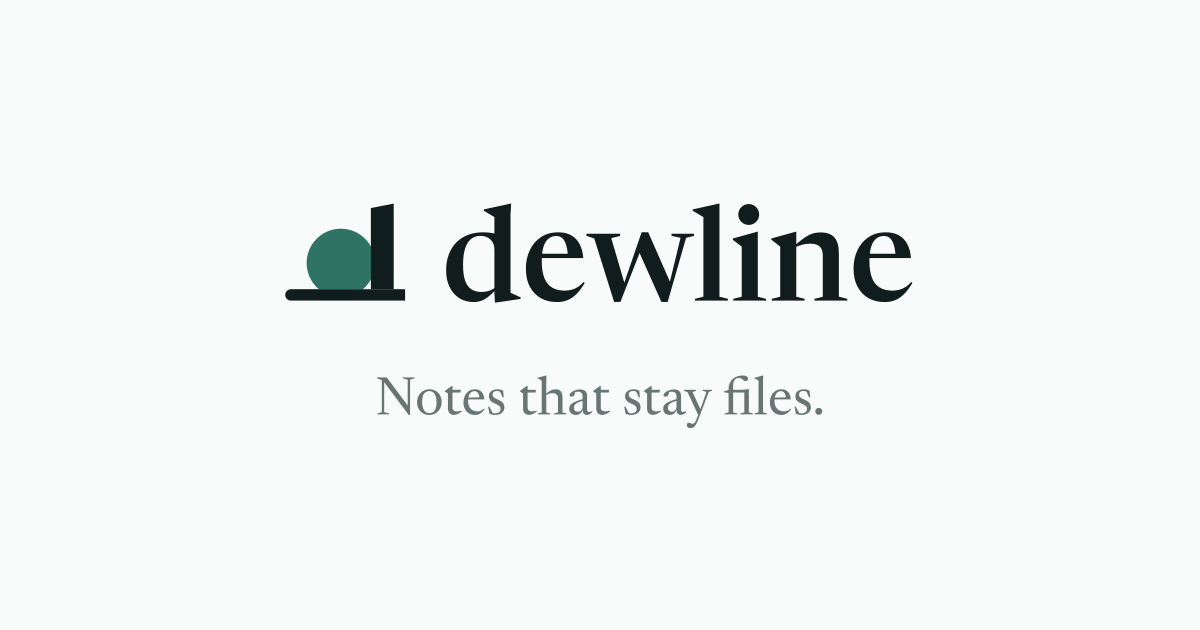
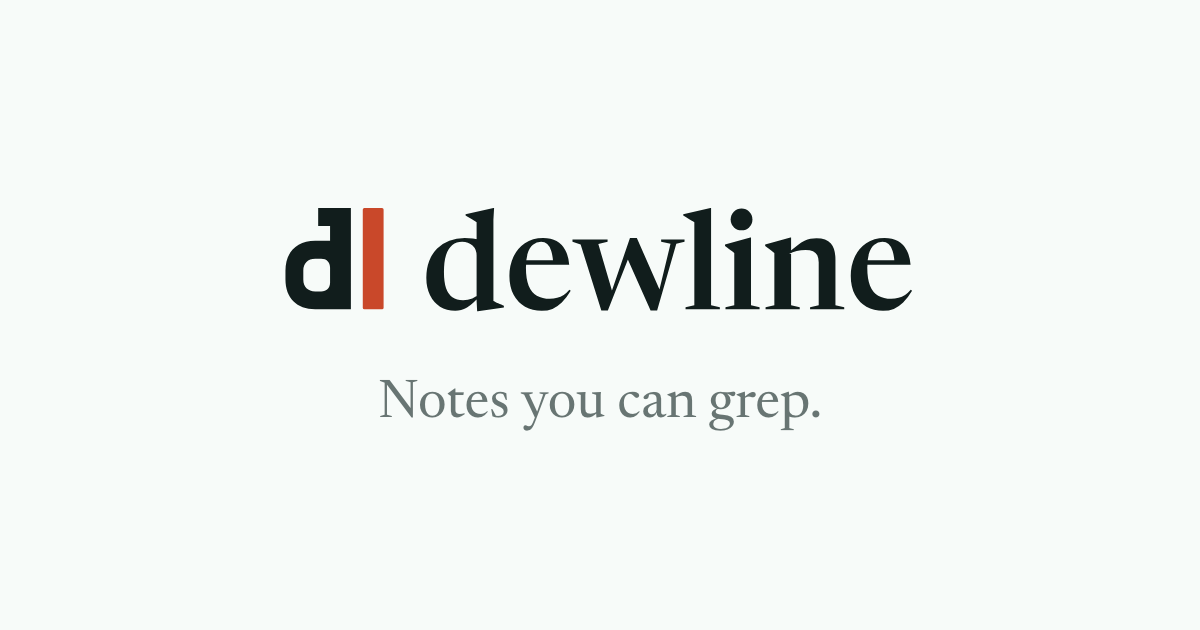
Brand pass: new mark, tagline and heading font (#90)
* Journey tests: first launch, a new note, a vault, agent review, reopen, git, snapshots, export

One suite in the test host, each test a whole path on a temporary folder with its own engine
store, in windows never ordered on screen. Two failures are real and stay as known issues:
View > Show Sidebar never reaches StationSplitController, and restoring a place lands where
TextKit 2's estimates put the line.

* Test host: a build of its own, so tests never write the app's defaults

The test action builds a Test configuration, Debug under dev.arkwerx.dewline.testhost IDs, so defaults,
Application Support and recent documents a test touches are the test host's. Archive, run and the perf
script's -configuration Release builds keep the app's IDs.

* New notes save themselves in their window's folder

A note made with File > New never autosaved, and its first save panel opened in Settings > General's
folder even in a vault window. Now the panel starts in the window's folder, and 2 s after an edit the
note saves itself there as the first free Untitled.md, then opens through the engine and autosaves like
any file.

* Conflict keys mean what they mean for changes

On a conflict card Cmd-Return kept both versions and Option-Cmd-Delete kept yours, while everywhere else
they keep and revert the outside writer's change. Now Cmd-Return keeps the other version (git's, the
agent's) and Option-Cmd-Delete keeps yours, on a card and off it.
[…]

Changed region(s): [[0.2158, 0.3016, 0.7708, 0.5127], [0.3083, 0.6032, 0.6783, 0.6937]]

diff --git a/site/index.html b/site/index.html
@@ -12,11 +12,11 @@
 <meta property="og:type" content="website">
 <meta property="og:url" content="https://dewline.arkwerx.com/">
 <meta property="og:title" content="Dewline">
-<meta property="og:description" content="A native Markdown editor for Mac, for the files you already keep.">
+<meta property="og:description" content="Notes you can grep. A native Markdown editor for Mac, for the files you already keep.">
 <meta property="og:image" content="https://dewline.arkwerx.com/og.png">
 <meta property="og:image:width" content="1200">
 <meta property="og:image:height" content="630">
-<meta property="og:image:alt" content="The Dewline wordmark above the line: Notes that stay files.">
+<meta property="og:image:alt" content="The Dewline mark and wordmark above the tagline: Notes you can grep.">
 <meta name="twitter:card" content="summary_large_image">
 <link rel="icon" href="/favicon.svg" type="image/svg+xml">
 <link rel="preload" href="/fonts/newsreader-var.v1.woff2" as="font" type="font/woff2" crossorigin>
@@ -27,13 +27,12 @@
 <body>
 <header class="top">
   <div class="top-in wrap">
-    <a class="lockup" href="/" aria-label="Dewline home"><svg aria-hidden="true" focusable="false" viewBox="-8 -12 979.9 176">
-  <g transform="matrix(0.27316 0 0 0.27316 -43.71 -77.27)">
-    <path class="bead" d="M348.6 768A192 192 0 1 1 595.4 768Z"/>
-    <path class="ink" d="M640 312.9L768 288V768H640Z"/>
-    <path class="ink" d="M832 768H192A32 32 0 0 0 192 832H832Z"/>
+    <a class="lockup" href="/" aria-label="Dewline home"><svg aria-hidden="true" focusable="false" viewBox="-8 -12 940.57 176">
+  <g transform="matrix(0.29137 0 0 0.29137 -77.21 -73.48)">
+    <path class="ink" transform="translate(55 32)" fill-rule="evenodd" d="M375,225L540,225L540,735L360,735C267.0,735 210,678.0 210,585L210,540C210,447.0 267.0,390 360,390L435,390L435,315L375,315ZM360,480L390,480C417.9,480 435,497.1 435,525L435,600C435,627.9 417.9,645 390,645L360,645C322.8,645 300,622.2 300,585L300,540C300,502.8 322.8,480 360,480Z"/>
+    <rect class="cursor" x="655" y="257" width="105" height="510" rx="8"/>
   </g>
-  <g transform="translate(239.56 0)">
+  <g transform="translate(200.23 0)">
   <g class="ink">
     <path d="M 80.7 71.3Q 80.7 62.1 74.7 56.5Q 68.7 50.8 59.4 50.8Q 51.0 50.8 45.0 55.6Q 39.0 60.5 35.8 70.3Q 32.7 80.2 32.7 95.3Q 32.7 109.7 35.7 118.9Q 38.8 128.1 45.1 132.4Q 51.3 136.7 60.8 136.7Q 68.1 136.7 74.4 134.3Q 80.6 131.8 86.2 125.9L 87.3 128.2Q 81.2 135.4 76.1 140.0Q 71.1 144.7 66.6 147.4Q 62.1 150.0 57.9 151.1Q 53.7 152.2 49.5 152.2Q 36.4 152.2 26.9 146.2Q 17.3 140.1 12.1 129.2Q 6.8 118.3 6.8 103.8Q 6.8 89.9 11.0 79.0Q 15.2 68.1 22.7 60.6Q 30.3 53.1 40.6 49.2Q 50.9 45.4 63.2 45.4Q 69.2 45.4 75.3 46.2Q 81.4 47.0 87.3 48.8Q 93.1 50.6 98.2 53.4L 80.7 55.5V 22.1Q 79.5 21.4 76.8 19.7Q 74.0 18.1 70.7 16.1Q 67.4 14.1 64.5 12.4V 10.3L 105.5 1.4H 106.4L 105.4 18.4V 137.9Q 106.3 138.3 108.2 139.2Q 110.1 140.1 112.4 141.1Q 114.7 142.2 116.9 143.2Q 119.2 144.3 120.8 145.0V 147.4L 82.5 153.0H 81.5L 80.7 137.7Z"/>
     <path d="M 178.6 45.4Q 190.0 45.4 198.2 49.9Q 206.4 54.5 211.1 63.3Q 215.9 72.1 216.8 84.8H 150.0V 78.2H 204.3L 193.4 82.6Q 192.6 71.2 190.4 64.3Q 188.2 57.4 184.5 54.2Q 180.8 51.0 175.5 51.0Q 168.5 51.0 163.5 55.2Q 158.4 59.3 155.8 67.7Q 153.2 76.2 153.2 89.1Q 153.2 105.3 157.2 115.4Q 161.3 125.5 169.2 130.1Q 177.1 134.7 188.5 134.7Q 194.0 134.7 199.1 133.3Q 204.2 131.9 208.7 129.0Q 213.3 126.1 217.1 121.5L 219.0 122.9Q 212.5 133.9 205.9 140.3Q 199.4 146.7 192.2 149.5Q 185.0 152.2 176.4 152.2Q 162.7 152.2 151.9 146.3Q 141.2 140.3 135.1 128.8Q 128.9 117.3 128.9 100.7Q 128.9 85.8 134.7 73.2Q 140.5 60.6 151.6 53.0Q 162.7 45.4 178.6 45.4Z"/>
@@ -216,12 +215,13 @@
   <section class="close" id="get">
     <div class="wrap close-in reveal">
       <div class="close-pitch">
-        <svg class="mark" aria-hidden="true" focusable="false" viewBox="144 272 704 576">
-  <path class="bead" d="M348.6 768A192 192 0 1 1 595.4 768Z"/>
-  <path class="ink" d="M640 312.9L768 288V768H640Z"/>
-  <path class="ink" d="M832 768H192A32 32 0 0 0 192 832H832Z"/>
+        <svg class="mark" aria-hidden="true" focusable="false" viewBox="0 0 1024 1024">
+  <defs><linearGradient id="tile" x1="0" y1="0" x2="0" y2="1"><stop offset="0" class="tile-top"/><stop offset="1" class="tile-foot"/></linearGradient></defs>
+  <rect width="1024" height="1024" rx="230" fill="url(#tile)"/>
+  <path class="tile-d" transform="translate(55 32)" fill-rule="evenodd" d="M375,225L540,225L540,735L360,735C267.0,735 210,678.0 210,585L210,540C210,447.0 267.0,390 360,390L435,390L435,315L375,315ZM360,480L390,480C417.9,480 435,497.1 435,525L435,600C435,627.9 417.9,645 390,645L360,645C322.8,645 300,622.2 300,585L300,540C300,502.8 322.8,480 360,480Z"/>
+  <rect class="tile-cursor" x="655" y="257" width="105" height="510" rx="8"/>
 </svg>
-        <h2>Your notes are already files.</h2>
+        <h2>Notes you can grep.</h2>
         <div class="get">
           <a class="btn" href="https://github.com/ark-232/dewline/releases/latest">Download for macOS 26</a>
         </div>

diff --git a/app/Dewline/Theme/Chrome.swift b/app/Dewline/Theme/Chrome.swift
@@ -333,16 +333,16 @@ final class ChromeButton: NSControl {
     }
 }
 
-/// The d-bead mark: a stem and a line in the theme's ink and a round bead in sea, fitted to the view and resting on
-/// its bottom edge. Drawn on the icon's 1024 grid, where the mark spans x 160 to 832 and y 288 to 832.
+/// The mark: the icon's monospace d in the theme's ink and its text cursor in the site's dawn, fitted to the view and
+/// resting on its bottom edge. Drawn on the icon's 1024 grid, where the mark spans x 265 to 760 and y 257 to 767.
 final class DewMark: NSView {
-    /// The brand's sea, the bead's color in every theme.
-    private static let sea = NSColor(name: nil) {
-        $0.isDark ? NSColor(srgbRed: 0x7F / 255, green: 0xC4 / 255, blue: 0xB2 / 255, alpha: 1)
-            : NSColor(srgbRed: 0x2F / 255, green: 0x73 / 255, blue: 0x65 / 255, alpha: 1)
+    /// The brand's accent, the cursor's color in every theme.
+    private static let dawn = NSColor(name: nil) {
+        $0.isDark ? NSColor(srgbRed: 0xFF / 255, green: 0x8A / 255, blue: 0x5C / 255, alpha: 1)
+            : NSColor(srgbRed: 0xC9 / 255, green: 0x48 / 255, blue: 0x2A / 255, alpha: 1)
     }
 
-    init(size: NSSize = NSSize(width: 18, height: 12)) {
+    init(size: NSSize = NSSize(width: 12, height: 12)) {
         super.init(frame: NSRect(origin: .zero, size: size))
         setAccessibilityElement(false)
         translatesAutoresizingMaskIntoConstraints = false
@@ -361,23 +361,38 @@ final class DewMark: NSView {
 
     override func draw(_ dirtyRect: NSRect) {
         guard let context = NSGraphicsContext.current?.cgContext else { return }
-        let scale = min(bounds.width / 672, bounds.height / 544)
-        context.translateBy(x: (bounds.width - 672 * scale) / 2, y: bounds.height - 544 * scale)
+        let scale = min(bounds.width / 495, bounds.height / 510)
+        context.translateBy(x: (bounds.width - 495 * scale) / 2, y: bounds.height - 510 * scale)
         context.scaleBy(x: scale, y: scale)
-        context.translateBy(x: -160, y: -288)
-        // The whole bead draws first: the line covers its lower part, so no seam shows where it rests.
-        Self.sea.resolved(for: effectiveAppearance).setFill()
-        NSBezierPath(ovalIn: NSRect(x: 280, y: 428.9, width: 384, height: 384)).fill()
+        context.translateBy(x: -265, y: -257)
         Chrome.color(.ink).resolved(for: effectiveAppearance).setFill()
-        let stem = NSBezierPath()
-        stem.move(to: NSPoint(x: 640, y: 312.9))
-        stem.line(to: NSPoint(x: 768, y: 288))
-        stem.line(to: NSPoint(x: 768, y: 832))
-        stem.line(to: NSPoint(x: 640, y: 832))
-        stem.close()
-        stem.fill()
-        NSBezierPath(ovalIn: NSRect(x: 160, y: 768, width: 64, height: 64)).fill()
-        NSBezierPath(rect: NSRect(x: 192, y: 768, width: 640, height: 64)).fill()
+        // The d's outer contour and its counter, wound against each other.
+        let d = NSBezierPath()
+        d.move(to: NSPoint(x: 430, y: 257))
+        d.line(to: NSPoint(x: 595, y: 257))
+        d.line(to: NSPoint(x: 595, y: 767))
+        d.line(to: NSPoint(x: 415, y: 767))
+        d.curve(to: NSPoint(x: 265, y: 617), controlPoint1: NSPoint(x: 322, y: 767), controlPoint2: NSPoint(x: 265, y: 710))
+        d.line(to: NSPoint(x: 265, y: 572))
+        d.curve(to: NSPoint(x: 415, y: 422), controlPoint1: NSPoint(x: 265, y: 479), controlPoint2: NSPoint(x: 322, y: 422))
+        d.line(to: NSPoint(x: 490, y: 422))
+        d.line(to: NSPoint(x: 490, y: 347))
+        d.line(to: NSPoint(x: 430, y: 347))
+        d.close()
+        d.move(to: NSPoint(x: 415, y: 512))
+        d.line(to: NSPoint(x: 445, y: 512))
+        d.curve(to: NSPoint(x: 490, y: 557), controlPoint1: NSPoint(x: 472.9, y: 512), controlPoint2: NSPoint(x: 490, y: 529.1))
+        d.line(to: NSPoint(x: 490, y: 632))
+        d.curve(to: NSPoint(x: 445, y: 677), controlPoint1: NSPoint(x: 490, y: 659.9), controlPoint2: NSPoint(x: 472.9, y: 677))
+        d.line(to: NSPoint(x: 415, y: 677))
+        d.curve(to: NSPoint(x: 355, y: 617), controlPoint1: NSPoint(x: 377.8, y: 677), controlPoint2: NSPoint(x: 355, y: 654.2))
+        d.line(to: NSPoint(x: 355, y: 572))
+        d.curve(to: NSPoint(x: 415, y: 512), controlPoint1: NSPoint(x: 355, y: 534.8), controlPoint2: NSPoint(x: 377.8, y: 512))
+        d.close()
+        d.windingRule = .evenOdd
+        d.fill()
+        Self.dawn.resolved(for: effectiveAppearance).setFill()
+        NSBezierPath(roundedRect: NSRect(x: 655, y: 257, width: 105, height: 510), xRadius: 8, yRadius: 8).fill()
     }
 
     @objc private func themeDidChange() {

diff --git a/site/docs/themes-and-fonts/index.html b/site/docs/themes-and-fonts/index.html
@@ -23,13 +23,12 @@
 <header class="dtop">
   <div class="dtop-in">
     <button type="button" class="menu" aria-controls="dnav" aria-expanded="false">Menu</button>
-    <a class="lockup" href="/" aria-label="Dewline home"><svg aria-hidden="true" focusable="false" viewBox="-8 -12 979.9 176">
-  <g transform="matrix(0.27316 0 0 0.27316 -43.71 -77.27)">
-    <path class="bead" d="M348.6 768A192 192 0 1 1 595.4 768Z"/>
-    <path class="ink" d="M640 312.9L768 288V768H640Z"/>
-    <path class="ink" d="M832 768H192A32 32 0 0 0 192 832H832Z"/>
+    <a class="lockup" href="/" aria-label="Dewline home"><svg aria-hidden="true" focusable="false" viewBox="-8 -12 940.57 176">
+  <g transform="matrix(0.29137 0 0 0.29137 -77.21 -73.48)">
+    <path class="ink" transform="translate(55 32)" fill-rule="evenodd" d="M375,225L540,225L540,735L360,735C267.0,735 210,678.0 210,585L210,540C210,447.0 267.0,390 360,390L435,390L435,315L375,315ZM360,480L390,480C417.9,480 435,497.1 435,525L435,600C435,627.9 417.9,645 390,645L360,645C322.8,645 300,622.2 300,585L300,540C300,502.8 322.8,480 360,480Z"/>
+    <rect class="cursor" x="655" y="257" width="105" height="510" rx="8"/>
   </g>
-  <g transform="translate(239.56 0)">
+  <g transform="translate(200.23 0)">
   <g class="ink">
     <path d="M 80.7 71.3Q 80.7 62.1 74.7 56.5Q 68.7 50.8 59.4 50.8Q 51.0 50.8 45.0 55.6Q 39.0 60.5 35.8 70.3Q 32.7 80.2 32.7 95.3Q 32.7 109.7 35.7 118.9Q 38.8 128.1 45.1 132.4Q 51.3 136.7 60.8 136.7Q 68.1 136.7 74.4 134.3Q 80.6 131.8 86.2 125.9L 87.3 128.2Q 81.2 135.4 76.1 140.0Q 71.1 144.7 66.6 147.4Q 62.1 150.0 57.9 151.1Q 53.7 152.2 49.5 152.2Q 36.4 152.2 26.9 146.2Q 17.3 140.1 12.1 129.2Q 6.8 118.3 6.8 103.8Q 6.8 89.9 11.0 79.0Q 15.2 68.1 22.7 60.6Q 30.3 53.1 40.6 49.2Q 50.9 45.4 63.2 45.4Q 69.2 45.4 75.3 46.2Q 81.4 47.0 87.3 48.8Q 93.1 50.6 98.2 53.4L 80.7 55.5V 22.1Q 79.5 21.4 76.8 19.7Q 74.0 18.1 70.7 16.1Q 67.4 14.1 64.5 12.4V 10.3L 105.5 1.4H 106.4L 105.4 18.4V 137.9Q 106.3 138.3 108.2 139.2Q 110.1 140.1 112.4 141.1Q 114.7 142.2 116.9 143.2Q 119.2 144.3 120.8 145.0V 147.4L 82.5 153.0H 81.5L 80.7 137.7Z"/>
     <path d="M 178.6 45.4Q 190.0 45.4 198.2 49.9Q 206.4 54.5 211.1 63.3Q 215.9 72.1 216.8 84.8H 150.0V 78.2H 204.3L 193.4 82.6Q 192.6 71.2 190.4 64.3Q 188.2 57.4 184.5 54.2Q 180.8 51.0 175.5 51.0Q 168.5 51.0 163.5 55.2Q 158.4 59.3 155.8 67.7Q 153.2 76.2 153.2 89.1Q 153.2 105.3 157.2 115.4Q 161.3 125.5 169.2 130.1Q 177.1 134.7 188.5 134.7Q 194.0 134.7 199.1 133.3Q 204.2 131.9 208.7 129.0Q 213.3 126.1 217.1 121.5L 219.0 122.9Q 212.5 133.9 205.9 140.3Q 199.4 146.7 192.2 149.5Q 185.0 152.2 176.4 152.2Q 162.7 152.2 151.9 146.3Q 141.2 140.3 135.1 128.8Q 128.9 117.3 128.9 100.7Q 128.9 85.8 134.7 73.2Q 140.5 60.6 151.6 53.0Q 162.7 45.4 178.6 45.4Z"/>
@@ -140,7 +139,7 @@
         <table>
           <thead><tr><th scope="col"></th><th scope="col">Body</th><th scope="col">Headings</th><th scope="col">Code</th></tr></thead>
           <tbody>
-            <tr><th scope="row">Default</th><td>New York</td><td>Bricolage Grotesque</td><td>JetBrains Mono</td></tr>
+            <tr><th scope="row">Default</th><td>New York</td><td>SF Pro, semibold</td><td>JetBrains Mono</td></tr>
             <tr><th scope="row" id="pairings">Editorial</th><td>Newsreader</td><td>Bricolage Grotesque</td><td>JetBrains Mono</td></tr>
             <tr><th scope="row">Manuscript</th><td>Courier Prime</td><td>Courier Prime</td><td>Courier Prime</td></tr>
             <tr><th scope="row">Hyperlegible</th><td>Atkinson Hyperlegible Next</td><td>Atkinson Hyperlegible Next</td><td>Atkinson Hyperlegible Mono</td></tr>

diff --git a/app/Dewline/Shell/LaunchWindow.swift b/app/Dewline/Shell/LaunchWindow.swift
@@ -1,7 +1,7 @@
 import AppKit
 
-/// The window shown when nothing is open, 560 by 400: the mark and name, one list of recent folders then notes, and
-/// New Note, Open and Open Folder along the bottom.
+/// The window shown when nothing is open, 560 by 400: the mark and name with the tagline across from them, one list
+/// of recent folders then notes, and New Note, Open and Open Folder along the bottom.
 final class LaunchWindowController: NSWindowController, NSTableViewDataSource, NSTableViewDelegate, NSSearchFieldDelegate {
     static var showsWhenNothingIsOpen: Bool {
         // The test host stays windowless.
@@ -21,6 +21,7 @@ final class LaunchWindowController: NSWindowController, NSTableViewDataSource, N
     private let filter = NSSearchField()
     private let empty = NSTextField(labelWithString: "Notes and folders you open show up here.")
     private let name = NSTextField(labelWithString: "Dewline")
+    private let tagline = NSTextField(labelWithString: "Notes you can grep.")
     private var rows: [Row] = []
     private var filterHeight: NSLayoutConstraint!
 
@@ -56,6 +57,7 @@ final class LaunchWindowController: NSWindowController, NSTableViewDataSource, N
 
     @objc private func applyTheme() {
         name.textColor = Chrome.color(.ink)
+        tagline.textColor = Chrome.color(.ink2)
         empty.textColor = Chrome.color(.ink2)
         list.reloadData()
     }
@@ -67,13 +69,14 @@ final class LaunchWindowController: NSWindowController, NSTableViewDataSource, N
 
     private func content() -> NSView {
         let root = PaperView()
-        let mark = DewMark(size: NSSize(width: 36, height: 28))
+        let mark = DewMark(size: NSSize(width: 16.5, height: 17))
         name.font = .systemFont(ofSize: 20, weight: .semibold)
         let lockup = NSStackView(views: [mark, name])
         lockup.spacing = 8
         lockup.alignment = .lastBaseline
         lockup.setAccessibilityElement(true)
         lockup.setAccessibilityLabel("Dewline")
+        tagline.font = Chrome.label
         filter.placeholderString = "Filter"
         filter.delegate = self
         let column = NSTableColumn(identifier: .init("file"))
@@ -104,7 +107,7 @@ final class LaunchWindowController: NSWindowController, NSTableViewDataSource, N
         let folder = NSButton(title: "Open Folder…", target: nil, action: #selector(AppDelegate.openFolder(_:)))
         let buttons = NSStackView(views: [folder, open, new])
         buttons.spacing = 8
-        for view in [lockup, filter, scroll, empty, buttons] as [NSView] {
+        for view in [lockup, tagline, filter, scroll, empty, buttons] as [NSView] {
             view.translatesAutoresizingMaskIntoConstraints = false
             root.addSubview(view)
         }
@@ -114,6 +117,8 @@ final class LaunchWindowController: NSWindowController, NSTableViewDataSource, N
             root.heightAnchor.constraint(equalToConstant: Self.size.height),
             lockup.topAnchor.constraint(equalTo: root.topAnchor, constant: 40),
             lockup.leadingAnchor.constraint(equalTo: root.leadingAnchor, constant: 24),
+            tagline.firstBaselineAnchor.constraint(equalTo: name.firstBaselineAnchor),
+            tagline.trailingAnchor.constraint(equalTo: root.trailingAnchor, constant: -24),
             filter.topAnchor.constraint(equalTo: lockup.bottomAnchor, constant: 20),
             filter.leadingAnchor.constraint(equalTo: root.leadingAnchor, constant: 24),
             filter.trailingAnchor.constraint(equalTo: root.trailingAnchor, constant: -24),

diff --git a/site/og/index.html b/site/og/index.html
@@ -7,13 +7,12 @@
 <link rel="stylesheet" href="/og/og.css">
 </head>
 <body class="og">
-  <svg aria-hidden="true" focusable="false" viewBox="-8 -12 979.9 176">
-  <g transform="matrix(0.27316 0 0 0.27316 -43.71 -77.27)">
-    <path class="bead" d="M348.6 768A192 192 0 1 1 595.4 768Z"/>
-    <path class="ink" d="M640 312.9L768 288V768H640Z"/>
-    <path class="ink" d="M832 768H192A32 32 0 0 0 192 832H832Z"/>
+  <svg aria-hidden="true" focusable="false" viewBox="-8 -12 940.57 176">
+  <g transform="matrix(0.29137 0 0 0.29137 -77.21 -73.48)">
+    <path class="ink" transform="translate(55 32)" fill-rule="evenodd" d="M375,225L540,225L540,735L360,735C267.0,735 210,678.0 210,585L210,540C210,447.0 267.0,390 360,390L435,390L435,315L375,315ZM360,480L390,480C417.9,480 435,497.1 435,525L435,600C435,627.9 417.9,645 390,645L360,645C322.8,645 300,622.2 300,585L300,540C300,502.8 322.8,480 360,480Z"/>
+    <rect class="cursor" x="655" y="257" width="105" height="510" rx="8"/>
   </g>
-  <g transform="translate(239.56 0)">
+  <g transform="translate(200.23 0)">
   <g class="ink">
     <path d="M 80.7 71.3Q 80.7 62.1 74.7 56.5Q 68.7 50.8 59.4 50.8Q 51.0 50.8 45.0 55.6Q 39.0 60.5 35.8 70.3Q 32.7 80.2 32.7 95.3Q 32.7 109.7 35.7 118.9Q 38.8 128.1 45.1 132.4Q 51.3 136.7 60.8 136.7Q 68.1 136.7 74.4 134.3Q 80.6 131.8 86.2 125.9L 87.3 128.2Q 81.2 135.4 76.1 140.0Q 71.1 144.7 66.6 147.4Q 62.1 150.0 57.9 151.1Q 53.7 152.2 49.5 152.2Q 36.4 152.2 26.9 146.2Q 17.3 140.1 12.1 129.2Q 6.8 118.3 6.8 103.8Q 6.8 89.9 11.0 79.0Q 15.2 68.1 22.7 60.6Q 30.3 53.1 40.6 49.2Q 50.9 45.4 63.2 45.4Q 69.2 45.4 75.3 46.2Q 81.4 47.0 87.3 48.8Q 93.1 50.6 98.2 53.4L 80.7 55.5V 22.1Q 79.5 21.4 76.8 19.7Q 74.0 18.1 70.7 16.1Q 67.4 14.1 64.5 12.4V 10.3L 105.5 1.4H 106.4L 105.4 18.4V 137.9Q 106.3 138.3 108.2 139.2Q 110.1 140.1 112.4 141.1Q 114.7 142.2 116.9 143.2Q 119.2 144.3 120.8 145.0V 147.4L 82.5 153.0H 81.5L 80.7 137.7Z"/>
     <path d="M 178.6 45.4Q 190.0 45.4 198.2 49.9Q 206.4 54.5 211.1 63.3Q 215.9 72.1 216.8 84.8H 150.0V 78.2H 204.3L 193.4 82.6Q 192.6 71.2 190.4 64.3Q 188.2 57.4 184.5 54.2Q 180.8 51.0 175.5 51.0Q 168.5 51.0 163.5 55.2Q 158.4 59.3 155.8 67.7Q 153.2 76.2 153.2 89.1Q 153.2 105.3 157.2 115.4Q 161.3 125.5 169.2 130.1Q 177.1 134.7 188.5 134.7Q 194.0 134.7 199.1 133.3Q 204.2 131.9 208.7 129.0Q 213.3 126.1 217.1 121.5L 219.0 122.9Q 212.5 133.9 205.9 140.3Q 199.4 146.7 192.2 149.5Q 185.0 152.2 176.4 152.2Q 162.7 152.2 151.9 146.3Q 141.2 140.3 135.1 128.8Q 128.9 117.3 128.9 100.7Q 128.9 85.8 134.7 73.2Q 140.5 60.6 151.6 53.0Q 162.7 45.4 178.6 45.4Z"/>
@@ -26,6 +25,6 @@
   <circle class="ink" cx="470.1" cy="18.1" r="16.0"/>
   </g>
 </svg>
-  <p class="og-tag">Notes that stay files.</p>
+  <p class="og-tag">Notes you can grep.</p>
 </body>
 </html>

diff --git a/site/docs/_template.html b/site/docs/_template.html
@@ -23,13 +23,12 @@
 <header class="dtop">
   <div class="dtop-in">
     <button type="button" class="menu" aria-controls="dnav" aria-expanded="false">Menu</button>
-    <a class="lockup" href="/" aria-label="Dewline home"><svg aria-hidden="true" focusable="false" viewBox="-8 -12 979.9 176">
-  <g transform="matrix(0.27316 0 0 0.27316 -43.71 -77.27)">
-    <path class="bead" d="M348.6 768A192 192 0 1 1 595.4 768Z"/>
-    <path class="ink" d="M640 312.9L768 288V768H640Z"/>
-    <path class="ink" d="M832 768H192A32 32 0 0 0 192 832H832Z"/>
+    <a class="lockup" href="/" aria-label="Dewline home"><svg aria-hidden="true" focusable="false" viewBox="-8 -12 940.57 176">
+  <g transform="matrix(0.29137 0 0 0.29137 -77.21 -73.48)">
+    <path class="ink" transform="translate(55 32)" fill-rule="evenodd" d="M375,225L540,225L540,735L360,735C267.0,735 210,678.0 210,585L210,540C210,447.0 267.0,390 360,390L435,390L435,315L375,315ZM360,480L390,480C417.9,480 435,497.1 435,525L435,600C435,627.9 417.9,645 390,645L360,645C322.8,645 300,622.2 300,585L300,540C300,502.8 322.8,480 360,480Z"/>
+    <rect class="cursor" x="655" y="257" width="105" height="510" rx="8"/>
   </g>
-  <g transform="translate(239.56 0)">
+  <g transform="translate(200.23 0)">
   <g class="ink">
     <path d="M 80.7 71.3Q 80.7 62.1 74.7 56.5Q 68.7 50.8 59.4 50.8Q 51.0 50.8 45.0 55.6Q 39.0 60.5 35.8 70.3Q 32.7 80.2 32.7 95.3Q 32.7 109.7 35.7 118.9Q 38.8 128.1 45.1 132.4Q 51.3 136.7 60.8 136.7Q 68.1 136.7 74.4 134.3Q 80.6 131.8 86.2 125.9L 87.3 128.2Q 81.2 135.4 76.1 140.0Q 71.1 144.7 66.6 147.4Q 62.1 150.0 57.9 151.1Q 53.7 152.2 49.5 152.2Q 36.4 152.2 26.9 146.2Q 17.3 140.1 12.1 129.2Q 6.8 118.3 6.8 103.8Q 6.8 89.9 11.0 79.0Q 15.2 68.1 22.7 60.6Q 30.3 53.1 40.6 49.2Q 50.9 45.4 63.2 45.4Q 69.2 45.4 75.3 46.2Q 81.4 47.0 87.3 48.8Q 93.1 50.6 98.2 53.4L 80.7 55.5V 22.1Q 79.5 21.4 76.8 19.7Q 74.0 18.1 70.7 16.1Q 67.4 14.1 64.5 12.4V 10.3L 105.5 1.4H 106.4L 105.4 18.4V 137.9Q 106.3 138.3 108.2 139.2Q 110.1 140.1 112.4 141.1Q 114.7 142.2 116.9 143.2Q 119.2 144.3 120.8 145.0V 147.4L 82.5 153.0H 81.5L 80.7 137.7Z"/>
     <path d="M 178.6 45.4Q 190.0 45.4 198.2 49.9Q 206.4 54.5 211.1 63.3Q 215.9 72.1 216.8 84.8H 150.0V 78.2H 204.3L 193.4 82.6Q 192.6 71.2 190.4 64.3Q 188.2 57.4 184.5 54.2Q 180.8 51.0 175.5 51.0Q 168.5 51.0 163.5 55.2Q 158.4 59.3 155.8 67.7Q 153.2 76.2 153.2 89.1Q 153.2 105.3 157.2 115.4Q 161.3 125.5 169.2 130.1Q 177.1 134.7 188.5 134.7Q 194.0 134.7 199.1 133.3Q 204.2 131.9 208.7 129.0Q 213.3 126.1 217.1 121.5L 219.0 122.9Q 212.5 133.9 205.9 140.3Q 199.4 146.7 192.2 149.5Q 185.0 152.2 176.4 152.2Q 162.7 152.2 151.9 146.3Q 141.2 140.3 135.1 128.8Q 128.9 117.3 128.9 100.7Q 128.9 85.8 134.7 73.2Q 140.5 60.6 151.6 53.0Q 162.7 45.4 178.6 45.4Z"/>

diff --git a/site/docs/agents/index.html b/site/docs/agents/index.html
@@ -23,13 +23,12 @@
 <header class="dtop">
   <div class="dtop-in">
     <button type="button" class="menu" aria-controls="dnav" aria-expanded="false">Menu</button>
-    <a class="lockup" href="/" aria-label="Dewline home"><svg aria-hidden="true" focusable="false" viewBox="-8 -12 979.9 176">
-  <g transform="matrix(0.27316 0 0 0.27316 -43.71 -77.27)">
-    <path class="bead" d="M348.6 768A192 192 0 1 1 595.4 768Z"/>
-    <path class="ink" d="M640 312.9L768 288V768H640Z"/>
-    <path class="ink" d="M832 768H192A32 32 0 0 0 192 832H832Z"/>
+    <a class="lockup" href="/" aria-label="Dewline home"><svg aria-hidden="true" focusable="false" viewBox="-8 -12 940.57 176">
+  <g transform="matrix(0.29137 0 0 0.29137 -77.21 -73.48)">
+    <path class="ink" transform="translate(55 32)" fill-rule="evenodd" d="M375,225L540,225L540,735L360,735C267.0,735 210,678.0 210,585L210,540C210,447.0 267.0,390 360,390L435,390L435,315L375,315ZM360,480L390,480C417.9,480 435,497.1 435,525L435,600C435,627.9 417.9,645 390,645L360,645C322.8,645 300,622.2 300,585L300,540C300,502.8 322.8,480 360,480Z"/>
+    <rect class="cursor" x="655" y="257" width="105" height="510" rx="8"/>
   </g>
-  <g transform="translate(239.56 0)">
+  <g transform="translate(200.23 0)">
   <g class="ink">
     <path d="M 80.7 71.3Q 80.7 62.1 74.7 56.5Q 68.7 50.8 59.4 50.8Q 51.0 50.8 45.0 55.6Q 39.0 60.5 35.8 70.3Q 32.7 80.2 32.7 95.3Q 32.7 109.7 35.7 118.9Q 38.8 128.1 45.1 132.4Q 51.3 136.7 60.8 136.7Q 68.1 136.7 74.4 134.3Q 80.6 131.8 86.2 125.9L 87.3 128.2Q 81.2 135.4 76.1 140.0Q 71.1 144.7 66.6 147.4Q 62.1 150.0 57.9 151.1Q 53.7 152.2 49.5 152.2Q 36.4 152.2 26.9 146.2Q 17.3 140.1 12.1 129.2Q 6.8 118.3 6.8 103.8Q 6.8 89.9 11.0 79.0Q 15.2 68.1 22.7 60.6Q 30.3 53.1 40.6 49.2Q 50.9 45.4 63.2 45.4Q 69.2 45.4 75.3 46.2Q 81.4 47.0 87.3 48.8Q 93.1 50.6 98.2 53.4L 80.7 55.5V 22.1Q 79.5 21.4 76.8 19.7Q 74.0 18.1 70.7 16.1Q 67.4 14.1 64.5 12.4V 10.3L 105.5 1.4H 106.4L 105.4 18.4V 137.9Q 106.3 138.3 108.2 139.2Q 110.1 140.1 112.4 141.1Q 114.7 142.2 116.9 143.2Q 119.2 144.3 120.8 145.0V 147.4L 82.5 153.0H 81.5L 80.7 137.7Z"/>
     <path d="M 178.6 45.4Q 190.0 45.4 198.2 49.9Q 206.4 54.5 211.1 63.3Q 215.9 72.1 216.8 84.8H 150.0V 78.2H 204.3L 193.4 82.6Q 192.6 71.2 190.4 64.3Q 188.2 57.4 184.5 54.2Q 180.8 51.0 175.5 51.0Q 168.5 51.0 163.5 55.2Q 158.4 59.3 155.8 67.7Q 153.2 76.2 153.2 89.1Q 153.2 105.3 157.2 115.4Q 161.3 125.5 169.2 130.1Q 177.1 134.7 188.5 134.7Q 194.0 134.7 199.1 133.3Q 204.2 131.9 208.7 129.0Q 213.3 126.1 217.1 121.5L 219.0 122.9Q 212.5 133.9 205.9 140.3Q 199.4 146.7 192.2 149.5Q 185.0 152.2 176.4 152.2Q 162.7 152.2 151.9 146.3Q 141.2 140.3 135.1 128.8Q 128.9 117.3 128.9 100.7Q 128.9 85.8 134.7 73.2Q 140.5 60.6 151.6 53.0Q 162.7 45.4 178.6 45.4Z"/>

diff --git a/site/docs/architecture/index.html b/site/docs/architecture/index.html
@@ -23,13 +23,12 @@
 <header class="dtop">
   <div class="dtop-in">
     <button type="button" class="menu" aria-controls="dnav" aria-expanded="false">Menu</button>
-    <a class="lockup" href="/" aria-label="Dewline home"><svg aria-hidden="true" focusable="false" viewBox="-8 -12 979.9 176">
-  <g transform="matrix(0.27316 0 0 0.27316 -43.71 -77.27)">
-    <path class="bead" d="M348.6 768A192 192 0 1 1 595.4 768Z"/>
-    <path class="ink" d="M640 312.9L768 288V768H640Z"/>
-    <path class="ink" d="M832 768H192A32 32 0 0 0 192 832H832Z"/>
+    <a class="lockup" href="/" aria-label="Dewline home"><svg aria-hidden="true" focusable="false" viewBox="-8 -12 940.57 176">
+  <g transform="matrix(0.29137 0 0 0.29137 -77.21 -73.48)">
+    <path class="ink" transform="translate(55 32)" fill-rule="evenodd" d="M375,225L540,225L540,735L360,735C267.0,735 210,678.0 210,585L210,540C210,447.0 267.0,390 360,390L435,390L435,315L375,315ZM360,480L390,480C417.9,480 435,497.1 435,525L435,600C435,627.9 417.9,645 390,645L360,645C322.8,645 300,622.2 300,585L300,540C300,502.8 322.8,480 360,480Z"/>
+    <rect class="cursor" x="655" y="257" width="105" height="510" rx="8"/>
   </g>
-  <g transform="translate(239.56 0)">
+  <g transform="translate(200.23 0)">
   <g class="ink">
     <path d="M 80.7 71.3Q 80.7 62.1 74.7 56.5Q 68.7 50.8 59.4 50.8Q 51.0 50.8 45.0 55.6Q 39.0 60.5 35.8 70.3Q 32.7 80.2 32.7 95.3Q 32.7 109.7 35.7 118.9Q 38.8 128.1 45.1 132.4Q 51.3 136.7 60.8 136.7Q 68.1 136.7 74.4 134.3Q 80.6 131.8 86.2 125.9L 87.3 128.2Q 81.2 135.4 76.1 140.0Q 71.1 144.7 66.6 147.4Q 62.1 150.0 57.9 151.1Q 53.7 152.2 49.5 152.2Q 36.4 152.2 26.9 146.2Q 17.3 140.1 12.1 129.2Q 6.8 118.3 6.8 103.8Q 6.8 89.9 11.0 79.0Q 15.2 68.1 22.7 60.6Q 30.3 53.1 40.6 49.2Q 50.9 45.4 63.2 45.4Q 69.2 45.4 75.3 46.2Q 81.4 47.0 87.3 48.8Q 93.1 50.6 98.2 53.4L 80.7 55.5V 22.1Q 79.5 21.4 76.8 19.7Q 74.0 18.1 70.7 16.1Q 67.4 14.1 64.5 12.4V 10.3L 105.5 1.4H 106.4L 105.4 18.4V 137.9Q 106.3 138.3 108.2 139.2Q 110.1 140.1 112.4 141.1Q 114.7 142.2 116.9 143.2Q 119.2 144.3 120.8 145.0V 147.4L 82.5 153.0H 81.5L 80.7 137.7Z"/>
     <path d="M 178.6 45.4Q 190.0 45.4 198.2 49.9Q 206.4 54.5 211.1 63.3Q 215.9 72.1 216.8 84.8H 150.0V 78.2H 204.3L 193.4 82.6Q 192.6 71.2 190.4 64.3Q 188.2 57.4 184.5 54.2Q 180.8 51.0 175.5 51.0Q 168.5 51.0 163.5 55.2Q 158.4 59.3 155.8 67.7Q 153.2 76.2 153.2 89.1Q 153.2 105.3 157.2 115.4Q 161.3 125.5 169.2 130.1Q 177.1 134.7 188.5 134.7Q 194.0 134.7 199.1 133.3Q 204.2 131.9 208.7 129.0Q 213.3 126.1 217.1 121.5L 219.0 122.9Q 212.5 133.9 205.9 140.3Q 199.4 146.7 192.2 149.5Q 185.0 152.2 176.4 152.2Q 162.7 152.2 151.9 146.3Q 141.2 140.3 135.1 128.8Q 128.9 117.3 128.9 100.7Q 128.9 85.8 134.7 73.2Q 140.5 60.6 151.6 53.0Q 162.7 45.4 178.6 45.4Z"/>

diff --git a/site/docs/cli/index.html b/site/docs/cli/index.html
@@ -23,13 +23,12 @@
 <header class="dtop">
   <div class="dtop-in">
     <button type="button" class="menu" aria-controls="dnav" aria-expanded="false">Menu</button>
-    <a class="lockup" href="/" aria-label="Dewline home"><svg aria-hidden="true" focusable="false" viewBox="-8 -12 979.9 176">
-  <g transform="matrix(0.27316 0 0 0.27316 -43.71 -77.27)">
-    <path class="bead" d="M348.6 768A192 192 0 1 1 595.4 768Z"/>
-    <path class="ink" d="M640 312.9L768 288V768H640Z"/>
-    <path class="ink" d="M832 768H192A32 32 0 0 0 192 832H832Z"/>
+    <a class="lockup" href="/" aria-label="Dewline home"><svg aria-hidden="true" focusable="false" viewBox="-8 -12 940.57 176">
+  <g transform="matrix(0.29137 0 0 0.29137 -77.21 -73.48)">
+    <path class="ink" transform="translate(55 32)" fill-rule="evenodd" d="M375,225L540,225L540,735L360,735C267.0,735 210,678.0 210,585L210,540C210,447.0 267.0,390 360,390L435,390L435,315L375,315ZM360,480L390,480C417.9,480 435,497.1 435,525L435,600C435,627.9 417.9,645 390,645L360,645C322.8,645 300,622.2 300,585L300,540C300,502.8 322.8,480 360,480Z"/>
+    <rect class="cursor" x="655" y="257" width="105" height="510" rx="8"/>
   </g>
-  <g transform="translate(239.56 0)">
+  <g transform="translate(200.23 0)">
   <g class="ink">
     <path d="M 80.7 71.3Q 80.7 62.1 74.7 56.5Q 68.7 50.8 59.4 50.8Q 51.0 50.8 45.0 55.6Q 39.0 60.5 35.8 70.3Q 32.7 80.2 32.7 95.3Q 32.7 109.7 35.7 118.9Q 38.8 128.1 45.1 132.4Q 51.3 136.7 60.8 136.7Q 68.1 136.7 74.4 134.3Q 80.6 131.8 86.2 125.9L 87.3 128.2Q 81.2 135.4 76.1 140.0Q 71.1 144.7 66.6 147.4Q 62.1 150.0 57.9 151.1Q 53.7 152.2 49.5 152.2Q 36.4 152.2 26.9 146.2Q 17.3 140.1 12.1 129.2Q 6.8 118.3 6.8 103.8Q 6.8 89.9 11.0 79.0Q 15.2 68.1 22.7 60.6Q 30.3 53.1 40.6 49.2Q 50.9 45.4 63.2 45.4Q 69.2 45.4 75.3 46.2Q 81.4 47.0 87.3 48.8Q 93.1 50.6 98.2 53.4L 80.7 55.5V 22.1Q 79.5 21.4 76.8 19.7Q 74.0 18.1 70.7 16.1Q 67.4 14.1 64.5 12.4V 10.3L 105.5 1.4H 106.4L 105.4 18.4V 137.9Q 106.3 138.3 108.2 139.2Q 110.1 140.1 112.4 141.1Q 114.7 142.2 116.9 143.2Q 119.2 144.3 120.8 145.0V 147.4L 82.5 153.0H 81.5L 80.7 137.7Z"/>
     <path d="M 178.6 45.4Q 190.0 45.4 198.2 49.9Q 206.4 54.5 211.1 63.3Q 215.9 72.1 216.8 84.8H 150.0V 78.2H 204.3L 193.4 82.6Q 192.6 71.2 190.4 64.3Q 188.2 57.4 184.5 54.2Q 180.8 51.0 175.5 51.0Q 168.5 51.0 163.5 55.2Q 158.4 59.3 155.8 67.7Q 153.2 76.2 153.2 89.1Q 153.2 105.3 157.2 115.4Q 161.3 125.5 169.2 130.1Q 177.1 134.7 188.5 134.7Q 194.0 134.7 199.1 133.3Q 204.2 131.9 208.7 129.0Q 213.3 126.1 217.1 121.5L 219.0 122.9Q 212.5 133.9 205.9 140.3Q 199.4 146.7 192.2 149.5Q 185.0 152.2 176.4 152.2Q 162.7 152.2 151.9 146.3Q 141.2 140.3 135.1 128.8Q 128.9 117.3 128.9 100.7Q 128.9 85.8 134.7 73.2Q 140.5 60.6 151.6 53.0Q 162.7 45.4 178.6 45.4Z"/>

diff --git a/site/docs/collaboration/index.html b/site/docs/collaboration/index.html
@@ -23,13 +23,12 @@
 <header class="dtop">
   <div class="dtop-in">
     <button type="button" class="menu" aria-controls="dnav" aria-expanded="false">Menu</button>
-    <a class="lockup" href="/" aria-label="Dewline home"><svg aria-hidden="true" focusable="false" viewBox="-8 -12 979.9 176">
-  <g transform="matrix(0.27316 0 0 0.27316 -43.71 -77.27)">
-    <path class="bead" d="M348.6 768A192 192 0 1 1 595.4 768Z"/>
-    <path class="ink" d="M640 312.9L768 288V768H640Z"/>
-    <path class="ink" d="M832 768H192A32 32 0 0 0 192 832H832Z"/>
+    <a class="lockup" href="/" aria-label="Dewline home"><svg aria-hidden="true" focusable="false" viewBox="-8 -12 940.57 176">
+  <g transform="matrix(0.29137 0 0 0.29137 -77.21 -73.48)">
+    <path class="ink" transform="translate(55 32)" fill-rule="evenodd" d="M375,225L540,225L540,735L360,735C267.0,735 210,678.0 210,585L210,540C210,447.0 267.0,390 360,390L435,390L435,315L375,315ZM360,480L390,480C417.9,480 435,497.1 435,525L435,600C435,627.9 417.9,645 390,645L360,645C322.8,645 300,622.2 300,585L300,540C300,502.8 322.8,480 360,480Z"/>
+    <rect class="cursor" x="655" y="257" width="105" height="510" rx="8"/>
   </g>
-  <g transform="translate(239.56 0)">
+  <g transform="translate(200.23 0)">
   <g class="ink">
     <path d="M 80.7 71.3Q 80.7 62.1 74.7 56.5Q 68.7 50.8 59.4 50.8Q 51.0 50.8 45.0 55.6Q 39.0 60.5 35.8 70.3Q 32.7 80.2 32.7 95.3Q 32.7 109.7 35.7 118.9Q 38.8 128.1 45.1 132.4Q 51.3 136.7 60.8 136.7Q 68.1 136.7 74.4 134.3Q 80.6 131.8 86.2 125.9L 87.3 128.2Q 81.2 135.4 76.1 140.0Q 71.1 144.7 66.6 147.4Q 62.1 150.0 57.9 151.1Q 53.7 152.2 49.5 152.2Q 36.4 152.2 26.9 146.2Q 17.3 140.1 12.1 129.2Q 6.8 118.3 6.8 103.8Q 6.8 89.9 11.0 79.0Q 15.2 68.1 22.7 60.6Q 30.3 53.1 40.6 49.2Q 50.9 45.4 63.2 45.4Q 69.2 45.4 75.3 46.2Q 81.4 47.0 87.3 48.8Q 93.1 50.6 98.2 53.4L 80.7 55.5V 22.1Q 79.5 21.4 76.8 19.7Q 74.0 18.1 70.7 16.1Q 67.4 14.1 64.5 12.4V 10.3L 105.5 1.4H 106.4L 105.4 18.4V 137.9Q 106.3 138.3 108.2 139.2Q 110.1 140.1 112.4 141.1Q 114.7 142.2 116.9 143.2Q 119.2 144.3 120.8 145.0V 147.4L 82.5 153.0H 81.5L 80.7 137.7Z"/>
     <path d="M 178.6 45.4Q 190.0 45.4 198.2 49.9Q 206.4 54.5 211.1 63.3Q 215.9 72.1 216.8 84.8H 150.0V 78.2H 204.3L 193.4 82.6Q 192.6 71.2 190.4 64.3Q 188.2 57.4 184.5 54.2Q 180.8 51.0 175.5 51.0Q 168.5 51.0 163.5 55.2Q 158.4 59.3 155.8 67.7Q 153.2 76.2 153.2 89.1Q 153.2 105.3 157.2 115.4Q 161.3 125.5 169.2 130.1Q 177.1 134.7 188.5 134.7Q 194.0 134.7 199.1 133.3Q 204.2 131.9 208.7 129.0Q 213.3 126.1 217.1 121.5L 219.0 122.9Q 212.5 133.9 205.9 140.3Q 199.4 146.7 192.2 149.5Q 185.0 152.2 176.4 152.2Q 162.7 152.2 151.9 146.3Q 141.2 140.3 135.1 128.8Q 128.9 117.3 128.9 100.7Q 128.9 85.8 134.7 73.2Q 140.5 60.6 151.6 53.0Q 162.7 45.4 178.6 45.4Z"/>

diff --git a/site/docs/editing/index.html b/site/docs/editing/index.html
@@ -23,13 +23,12 @@
 <header class="dtop">
   <div class="dtop-in">
     <button type="button" class="menu" aria-controls="dnav" aria-expanded="false">Menu</button>
-    <a class="lockup" href="/" aria-label="Dewline home"><svg aria-hidden="true" focusable="false" viewBox="-8 -12 979.9 176">
-  <g transform="matrix(0.27316 0 0 0.27316 -43.71 -77.27)">
-    <path class="bead" d="M348.6 768A192 192 0 1 1 595.4 768Z"/>
-    <path class="ink" d="M640 312.9L768 288V768H640Z"/>
-    <path class="ink" d="M832 768H192A32 32 0 0 0 192 832H832Z"/>
+    <a class="lockup" href="/" aria-label="Dewline home"><svg aria-hidden="true" focusable="false" viewBox="-8 -12 940.57 176">
+  <g transform="matrix(0.29137 0 0 0.29137 -77.21 -73.48)">
+    <path class="ink" transform="translate(55 32)" fill-rule="evenodd" d="M375,225L540,225L540,735L360,735C267.0,735 210,678.0 210,585L210,540C210,447.0 267.0,390 360,390L435,390L435,315L375,315ZM360,480L390,480C417.9,480 435,497.1 435,525L435,600C435,627.9 417.9,645 390,645L360,645C322.8,645 300,622.2 300,585L300,540C300,502.8 322.8,480 360,480Z"/>
+    <rect class="cursor" x="655" y="257" width="105" height="510" rx="8"/>
   </g>
-  <g transform="translate(239.56 0)">
+  <g transform="translate(200.23 0)">
   <g class="ink">
     <path d="M 80.7 71.3Q 80.7 62.1 74.7 56.5Q 68.7 50.8 59.4 50.8Q 51.0 50.8 45.0 55.6Q 39.0 60.5 35.8 70.3Q 32.7 80.2 32.7 95.3Q 32.7 109.7 35.7 118.9Q 38.8 128.1 45.1 132.4Q 51.3 136.7 60.8 136.7Q 68.1 136.7 74.4 134.3Q 80.6 131.8 86.2 125.9L 87.3 128.2Q 81.2 135.4 76.1 140.0Q 71.1 144.7 66.6 147.4Q 62.1 150.0 57.9 151.1Q 53.7 152.2 49.5 152.2Q 36.4 152.2 26.9 146.2Q 17.3 140.1 12.1 129.2Q 6.8 118.3 6.8 103.8Q 6.8 89.9 11.0 79.0Q 15.2 68.1 22.7 60.6Q 30.3 53.1 40.6 49.2Q 50.9 45.4 63.2 45.4Q 69.2 45.4 75.3 46.2Q 81.4 47.0 87.3 48.8Q 93.1 50.6 98.2 53.4L 80.7 55.5V 22.1Q 79.5 21.4 76.8 19.7Q 74.0 18.1 70.7 16.1Q 67.4 14.1 64.5 12.4V 10.3L 105.5 1.4H 106.4L 105.4 18.4V 137.9Q 106.3 138.3 108.2 139.2Q 110.1 140.1 112.4 141.1Q 114.7 142.2 116.9 143.2Q 119.2 144.3 120.8 145.0V 147.4L 82.5 153.0H 81.5L 80.7 137.7Z"/>
     <path d="M 178.6 45.4Q 190.0 45.4 198.2 49.9Q 206.4 54.5 211.1 63.3Q 215.9 72.1 216.8 84.8H 150.0V 78.2H 204.3L 193.4 82.6Q 192.6 71.2 190.4 64.3Q 188.2 57.4 184.5 54.2Q 180.8 51.0 175.5 51.0Q 168.5 51.0 163.5 55.2Q 158.4 59.3 155.8 67.7Q 153.2 76.2 153.2 89.1Q 153.2 105.3 157.2 115.4Q 161.3 125.5 169.2 130.1Q 177.1 134.7 188.5 134.7Q 194.0 134.7 199.1 133.3Q 204.2 131.9 208.7 129.0Q 213.3 126.1 217.1 121.5L 219.0 122.9Q 212.5 133.9 205.9 140.3Q 199.4 146.7 192.2 149.5Q 185.0 152.2 176.4 152.2Q 162.7 152.2 151.9 146.3Q 141.2 140.3 135.1 128.8Q 128.9 117.3 128.9 100.7Q 128.9 85.8 134.7 73.2Q 140.5 60.6 151.6 53.0Q 162.7 45.4 178.6 45.4Z"/>

diff --git a/site/docs/export/index.html b/site/docs/export/index.html
@@ -23,13 +23,12 @@
 <header class="dtop">
   <div class="dtop-in">
     <button type="button" class="menu" aria-controls="dnav" aria-expanded="false">Menu</button>
-    <a class="lockup" href="/" aria-label="Dewline home"><svg aria-hidden="true" focusable="false" viewBox="-8 -12 979.9 176">
-  <g transform="matrix(0.27316 0 0 0.27316 -43.71 -77.27)">
-    <path class="bead" d="M348.6 768A192 192 0 1 1 595.4 768Z"/>
-    <path class="ink" d="M640 312.9L768 288V768H640Z"/>
-    <path class="ink" d="M832 768H192A32 32 0 0 0 192 832H832Z"/>
+    <a class="lockup" href="/" aria-label="Dewline home"><svg aria-hidden="true" focusable="false" viewBox="-8 -12 940.57 176">
+  <g transform="matrix(0.29137 0 0 0.29137 -77.21 -73.48)">
+    <path class="ink" transform="translate(55 32)" fill-rule="evenodd" d="M375,225L540,225L540,735L360,735C267.0,735 210,678.0 210,585L210,540C210,447.0 267.0,390 360,390L435,390L435,315L375,315ZM360,480L390,480C417.9,480 435,497.1 435,525L435,600C435,627.9 417.9,645 390,645L360,645C322.8,645 300,622.2 300,585L300,540C300,502.8 322.8,480 360,480Z"/>
+    <rect class="cursor" x="655" y="257" width="105" height="510" rx="8"/>
   </g>
-  <g transform="translate(239.56 0)">
+  <g transform="translate(200.23 0)">
   <g class="ink">
     <path d="M 80.7 71.3Q 80.7 62.1 74.7 56.5Q 68.7 50.8 59.4 50.8Q 51.0 50.8 45.0 55.6Q 39.0 60.5 35.8 70.3Q 32.7 80.2 32.7 95.3Q 32.7 109.7 35.7 118.9Q 38.8 128.1 45.1 132.4Q 51.3 136.7 60.8 136.7Q 68.1 136.7 74.4 134.3Q 80.6 131.8 86.2 125.9L 87.3 128.2Q 81.2 135.4 76.1 140.0Q 71.1 144.7 66.6 147.4Q 62.1 150.0 57.9 151.1Q 53.7 152.2 49.5 152.2Q 36.4 152.2 26.9 146.2Q 17.3 140.1 12.1 129.2Q 6.8 118.3 6.8 103.8Q 6.8 89.9 11.0 79.0Q 15.2 68.1 22.7 60.6Q 30.3 53.1 40.6 49.2Q 50.9 45.4 63.2 45.4Q 69.2 45.4 75.3 46.2Q 81.4 47.0 87.3 48.8Q 93.1 50.6 98.2 53.4L 80.7 55.5V 22.1Q 79.5 21.4 76.8 19.7Q 74.0 18.1 70.7 16.1Q 67.4 14.1 64.5 12.4V 10.3L 105.5 1.4H 106.4L 105.4 18.4V 137.9Q 106.3 138.3 108.2 139.2Q 110.1 140.1 112.4 141.1Q 114.7 142.2 116.9 143.2Q 119.2 144.3 120.8 145.0V 147.4L 82.5 153.0H 81.5L 80.7 137.7Z"/>
     <path d="M 178.6 45.4Q 190.0 45.4 198.2 49.9Q 206.4 54.5 211.1 63.3Q 215.9 72.1 216.8 84.8H 150.0V 78.2H 204.3L 193.4 82.6Q 192.6 71.2 190.4 64.3Q 188.2 57.4 184.5 54.2Q 180.8 51.0 175.5 51.0Q 168.5 51.0 163.5 55.2Q 158.4 59.3 155.8 67.7Q 153.2 76.2 153.2 89.1Q 153.2 105.3 157.2 115.4Q 161.3 125.5 169.2 130.1Q 177.1 134.7 188.5 134.7Q 194.0 134.7 199.1 133.3Q 204.2 131.9 208.7 129.0Q 213.3 126.1 217.1 121.5L 219.0 122.9Q 212.5 133.9 205.9 140.3Q 199.4 146.7 192.2 149.5Q 185.0 152.2 176.4 152.2Q 162.7 152.2 151.9 146.3Q 141.2 140.3 135.1 128.8Q 128.9 117.3 128.9 100.7Q 128.9 85.8 134.7 73.2Q 140.5 60.6 151.6 53.0Q 162.7 45.4 178.6 45.4Z"/>
